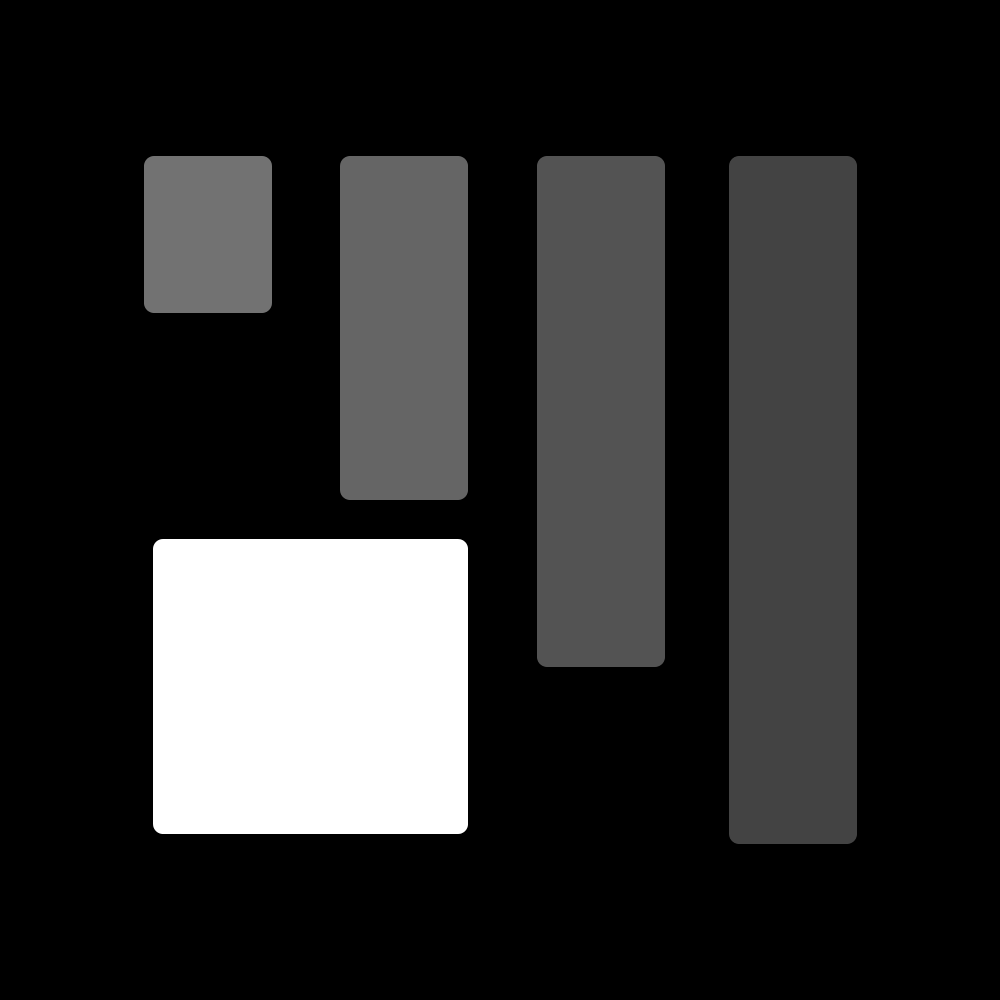
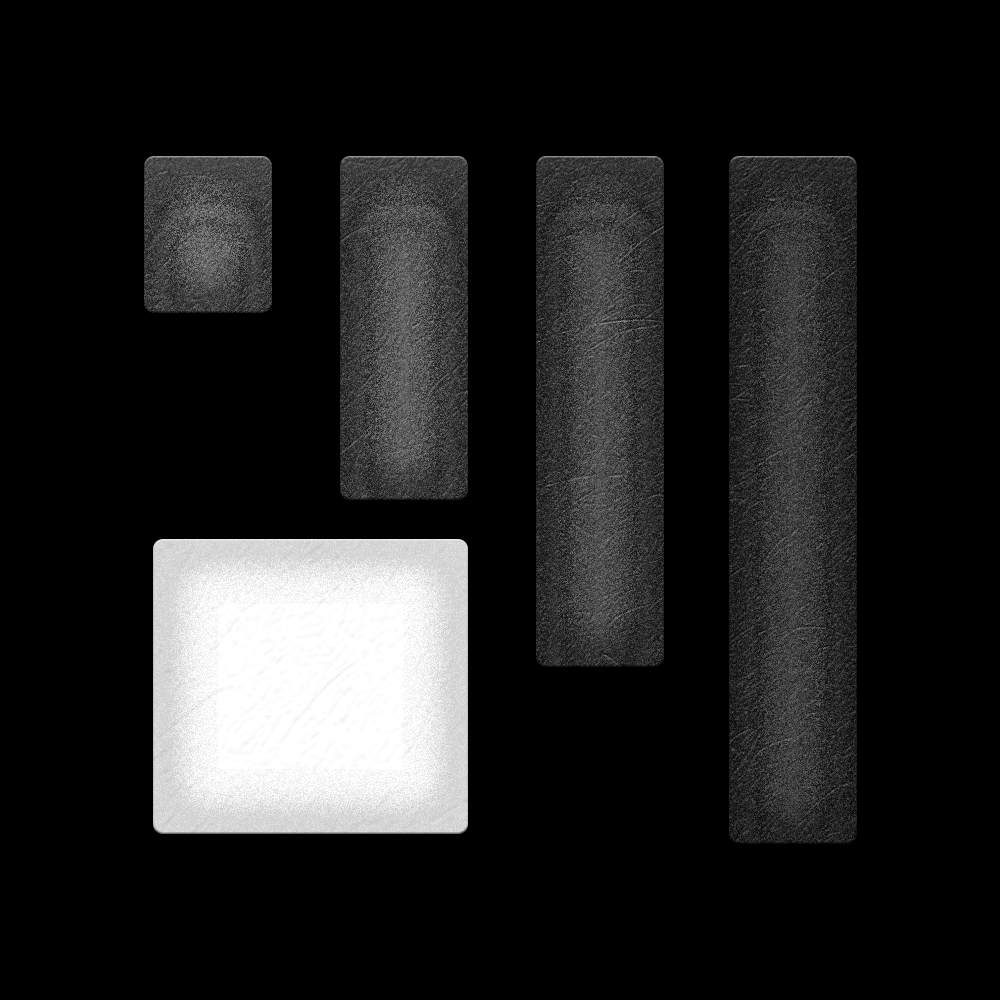
Поддержка карт свечения для материалов

diff --git a/XEngine/src/XEngine/App.cpp b/XEngine/src/XEngine/App.cpp
@@ -73,8 +73,9 @@ namespace XEngine {
     std::unique_ptr<ShaderProgram> lsShaderProgram;
     std::unique_ptr<VertexBuffer> cubeVBO;
     std::unique_ptr<IndexBuffer> cubeIndexBuffer;
-    std::unique_ptr<Texture2D> DiffuseTexture;
+    std::unique_ptr<Texture2D> diffuseTexture;
     std::unique_ptr<Texture2D> specularTexture;
+    std::unique_ptr<Texture2D> emissionTexture;
     std::unique_ptr<VertexArray> vao;
     std::array<glm::vec3, 5> positions = {
             glm::vec3(-2.f, -2.f, -4.f),
@@ -142,16 +143,21 @@ namespace XEngine {
         int channels = 3;
         unsigned char* uvData = new unsigned char[width * height * channels];
         ResLoader::flipImagesVertical(true);
-        //Load quads albedo.
-        uvData = IMAGE_LOAD("../../res/quads_albedo.png", &width, &height, &channels, 3);
-        if(!uvData) LOG_ERRR("Failed to load texture 'quads_albedo.png'");
-        DiffuseTexture = std::make_unique<Texture2D>(uvData, width, height);
-        DiffuseTexture->bind(0);
-        //Load quads specular.
+        //Load quads diffusion map.
+        uvData = IMAGE_LOAD("../../res/quads_diffusion.png", &width, &height, &channels, 3);
+        if(!uvData) LOG_ERRR("Failed to load texture 'quads_diffusion.png'");
+        diffuseTexture = std::make_unique<Texture2D>(uvData, width, height);
+        diffuseTexture->bind(0);
+        //Load quads specular map.
         uvData = IMAGE_LOAD("../../res/quads_specular.png", &width, &height, &channels, 3);
         if (!uvData) LOG_ERRR("Failed to load texture 'quads_specular.png'");
         specularTexture = std::make_unique<Texture2D>(uvData, width, height);
         specularTexture->bind(1);
+        //Load quads emission map.
+        uvData = IMAGE_LOAD("../../res/quads_emission.png", &width, &height, &channels, 3);
+        if (!uvData) LOG_ERRR("Failed to load texture 'quads_emission.png'");
+        emissionTexture = std::make_unique<Texture2D>(uvData, width, height);
+        emissionTexture->bind(2);
         delete[] uvData;
         //Create shader program.
         std::string vScode = ResLoader::loadText("../../res/geometry.vert");
@@ -227,6 +233,8 @@ namespace XEngine {
         shaderProgram->setFloat("diffuse_factor", diffuseFactor);
         shaderProgram->setFloat("specular_factor", specularFactor);
         shaderProgram->setFloat("shininess", shininess);
+        shaderProgram->setFloat("emission_factor", emission);
+        shaderProgram->setVector3("emission_color", glm::vec3(emissionColor[0], emissionColor[1], emissionColor[2]));
         //Render.
         Renderer::draw(*vao);
         for (const glm::vec3& curPos : positions) {

diff --git a/XEngineEditor/src/main.cpp b/XEngineEditor/src/main.cpp
@@ -32,7 +32,7 @@ class EditorApp : public XEngine::App {
         //Editor main
         ImGui::Begin("Editor");
         ImGui::Text("General Testing");
-        ImGui::ColorEdit3("Bg Color", App::bgColor);
+        ImGui::ColorEdit3("Bg Color", bgColor);
         ImGui::Text("Matrix Operations");
         ImGui::DragFloat3("Position", position, -1.f, 1.f);
         ImGui::DragFloat3("Rotation", rotation, 0.f, 360.f);
@@ -55,12 +55,14 @@ class EditorApp : public XEngine::App {
         //Editor light
         ImGui::Begin("Light");
         ImGui::Text("Light Source");
-        ImGui::DragFloat3("LS Position", App::lightSourcePos, -1.f, 1.f);
-        ImGui::ColorEdit3("LS Color", App::lightSourceColor);
+        ImGui::DragFloat3("LS position", lightSourcePos, -1.f, 1.f);
+        ImGui::ColorEdit3("LS color", lightSourceColor);
         ImGui::SliderFloat("Ambient factor", &ambientFactor, 0.f, 1.f);
         ImGui::SliderFloat("Diffuse factor", &diffuseFactor, 0.f, 1.f);
         ImGui::SliderFloat("Specular factor", &specularFactor, 0.f, 1.f);
         ImGui::SliderFloat("Shininess", &shininess, 1.f, 128.f);
+        ImGui::SliderFloat("Emission factor", &emission, 0.f, 2.f);
+        ImGui::ColorEdit3("Emission color", emissionColor);
         ImGui::End();
     }
 

diff --git a/XEngine/includes/XEngine/App.hpp b/XEngine/includes/XEngine/App.hpp
@@ -42,6 +42,8 @@ namespace XEngine {
 		float diffuseFactor = 0.5f;
 		float specularFactor = 1.f;
 		float shininess = 32.f;
+		float emission = 0.f;
+		float emissionColor[3] = { 1.f, 1.f, 1.f };
 	private:
 		void draw();
 		std::unique_ptr<class Window> mainWindow;
